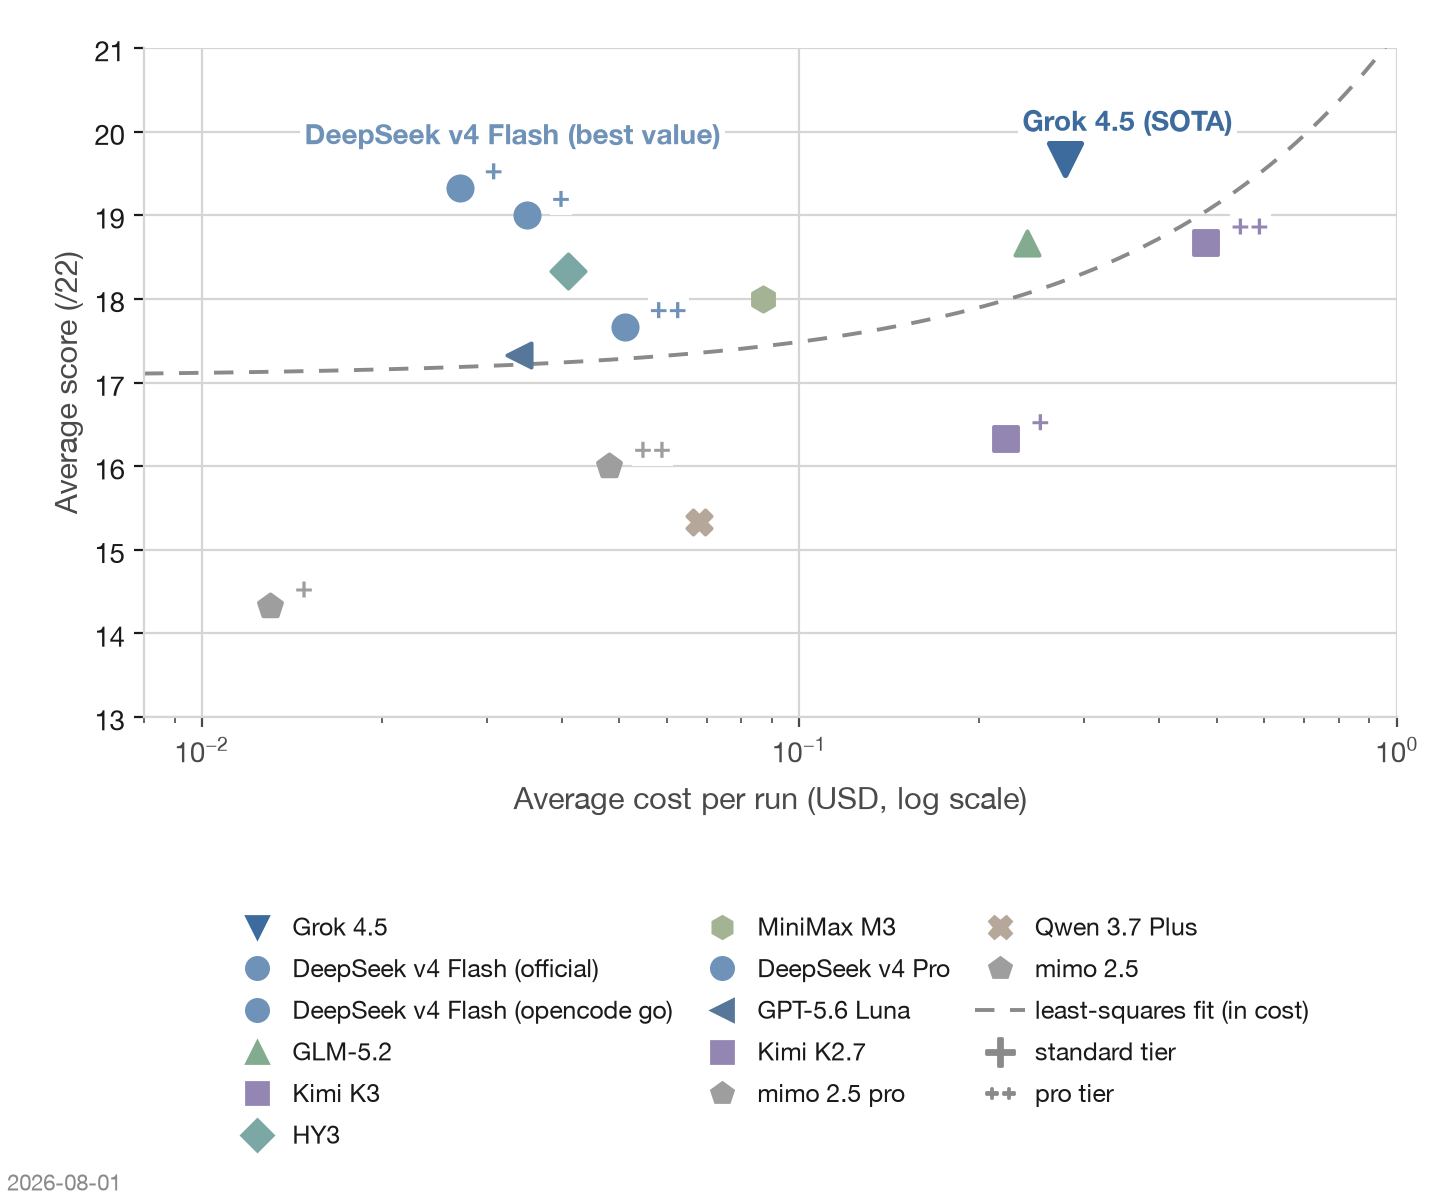
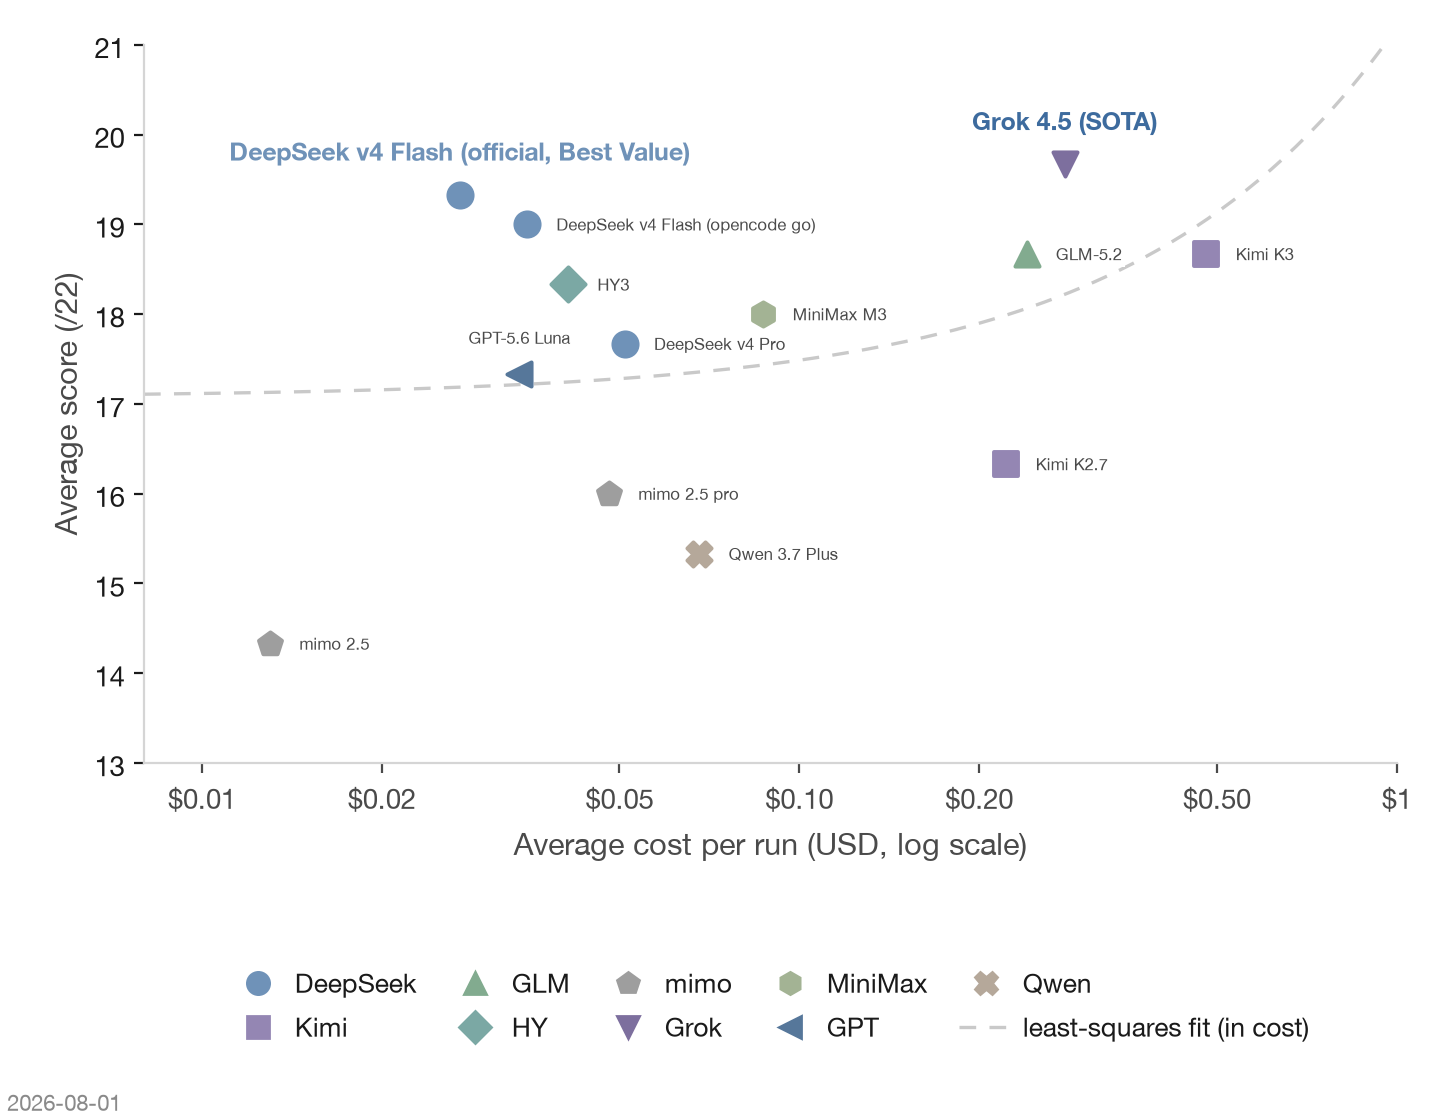
Redesign benchmark figures: AA-style scatter with auto label layout, no gridlines

diff --git a/blog/live-curator-benchmark.html b/blog/live-curator-benchmark.html
@@ -146,9 +146,9 @@ if (location.protocol === "https:") {
 
       <p><img src="../images/live-curator-benchmark-02.png" alt="Bar chart of average scores, sorted: Grok 4.5 19.67, DeepSeek v4 Flash (official) 19.33, DeepSeek v4 Flash (opencode go) 19.00, GLM-5.2 18.67, Kimi K3 18.67, HY3 18.33, MiniMax M3 18.00, DeepSeek v4 Pro 17.67, GPT-5.6 Luna 17.33, Kimi K2.7 16.33, mimo 2.5 pro 16.00, Qwen 3.7 Plus 15.33, mimo 2.5 14.33" loading="lazy"></p>
 
-      <p><img src="../images/live-curator-benchmark-03.png" alt="Scatter plot of average cost per run versus average score with a dashed fit curve: vendors are encoded by color and marker shape; Grok 4.5 is labeled SOTA at top right (highest score, mid-range cost) and DeepSeek v4 Flash (official) is labeled best value at top left (near-top score at one of the lowest costs)" loading="lazy"></p>
+      <p><img src="../images/live-curator-benchmark-03.png" alt="Scatter plot of average cost per run (log scale, dollar ticks) versus average score with a faint dashed fit curve: every point is labeled with its model name, vendor encoded by color and marker shape; Grok 4.5 carries a SOTA tag at top right, DeepSeek v4 Flash (official) carries a best-value tag at top left" loading="lazy"></p>
 
-      <p>Thirteen models were tested in two batches on 2026-07-31 and 2026-08-01: eight over official or subscription channels (DeepSeek v4 Flash and v4 Pro, GLM-5.2, Kimi K3 and K2.7, HY3, mimo 2.5 and 2.5 pro), five over the opencode go channel (Grok 4.5, DeepSeek v4 Flash, MiniMax M3, GPT-5.6 Luna, Qwen 3.7 Plus). DeepSeek v4 Flash is the official version throughout—substantially stronger than the earlier preview—and it ran over both channels. Reasoning was switched on wherever the vendor exposes it (high / thinking / xhigh; Grok 4.5 and Qwen 3.7 Plus expose no reasoning setting). In the scatter plot, cost sits on a logarithmic axis: reading upward finds extraction quality—Grok 4.5 (SOTA) is the strongest extractor—while reading up and to the left finds the most quality per dollar, which is DeepSeek v4 Flash (best value). Marker shape and color encode the vendor, crosses mark the tier within a vendor (+ standard, ++ pro), and the dashed curve is a least-squares fit of score on cost. Cost sources, token accounting, and reporting quirks are documented in the appendix.</p>
+      <p>Thirteen models were tested in two batches on 2026-07-31 and 2026-08-01: eight over official or subscription channels (DeepSeek v4 Flash and v4 Pro, GLM-5.2, Kimi K3 and K2.7, HY3, mimo 2.5 and 2.5 pro), five over the opencode go channel (Grok 4.5, DeepSeek v4 Flash, MiniMax M3, GPT-5.6 Luna, Qwen 3.7 Plus). DeepSeek v4 Flash is the official version throughout—substantially stronger than the earlier preview—and it ran over both channels. Reasoning was switched on wherever the vendor exposes it (high / thinking / xhigh; Grok 4.5 and Qwen 3.7 Plus expose no reasoning setting). In the scatter plot, cost sits on a logarithmic axis: reading upward finds extraction quality—Grok 4.5 (SOTA) is the strongest extractor—while reading up and to the left finds the most quality per dollar, which is DeepSeek v4 Flash (best value). Every point is labeled with its model name; marker shape and color encode the vendor, and the dashed curve is a least-squares fit of score on cost. Cost sources, token accounting, and reporting quirks are documented in the appendix.</p>
 
       <table>
         <caption>Table 1 · Score, tokens, and cost per run (3-run averages, 2026-08-01)</caption>

diff --git a/blog/deepseek-v4-flash-best-value.html b/blog/deepseek-v4-flash-best-value.html
@@ -105,7 +105,7 @@ if (location.protocol === "https:") {
 
       <p><img src="../images/live-curator-benchmark-02.png" alt="Bar chart of average scores across thirteen models on LiveCuratorBench: Grok 4.5 leads at 19.67, DeepSeek v4 Flash follows at 19.33 (official endpoint) and 19.00 (opencode go)" loading="lazy"></p>
 
-      <p><img src="../images/live-curator-benchmark-03.png" alt="Scatter plot of cost per run versus score: DeepSeek v4 Flash (official) is labeled best value at top left—near-top score at one of the lowest costs; Grok 4.5 is labeled SOTA at top right" loading="lazy"></p>
+      <p><img src="../images/live-curator-benchmark-03.png" alt="Scatter plot of cost per run versus score with every point labeled by model name: DeepSeek v4 Flash (official) carries a best-value tag at top left—near-top score at one of the lowest costs; Grok 4.5 carries a SOTA tag at top right" loading="lazy"></p>
 
       <p>Task description, evaluation criteria, and the full thirteen-model results are on the <a href="live-curator-benchmark.html">LiveCuratorBench main page</a>.</p>
     </div>
